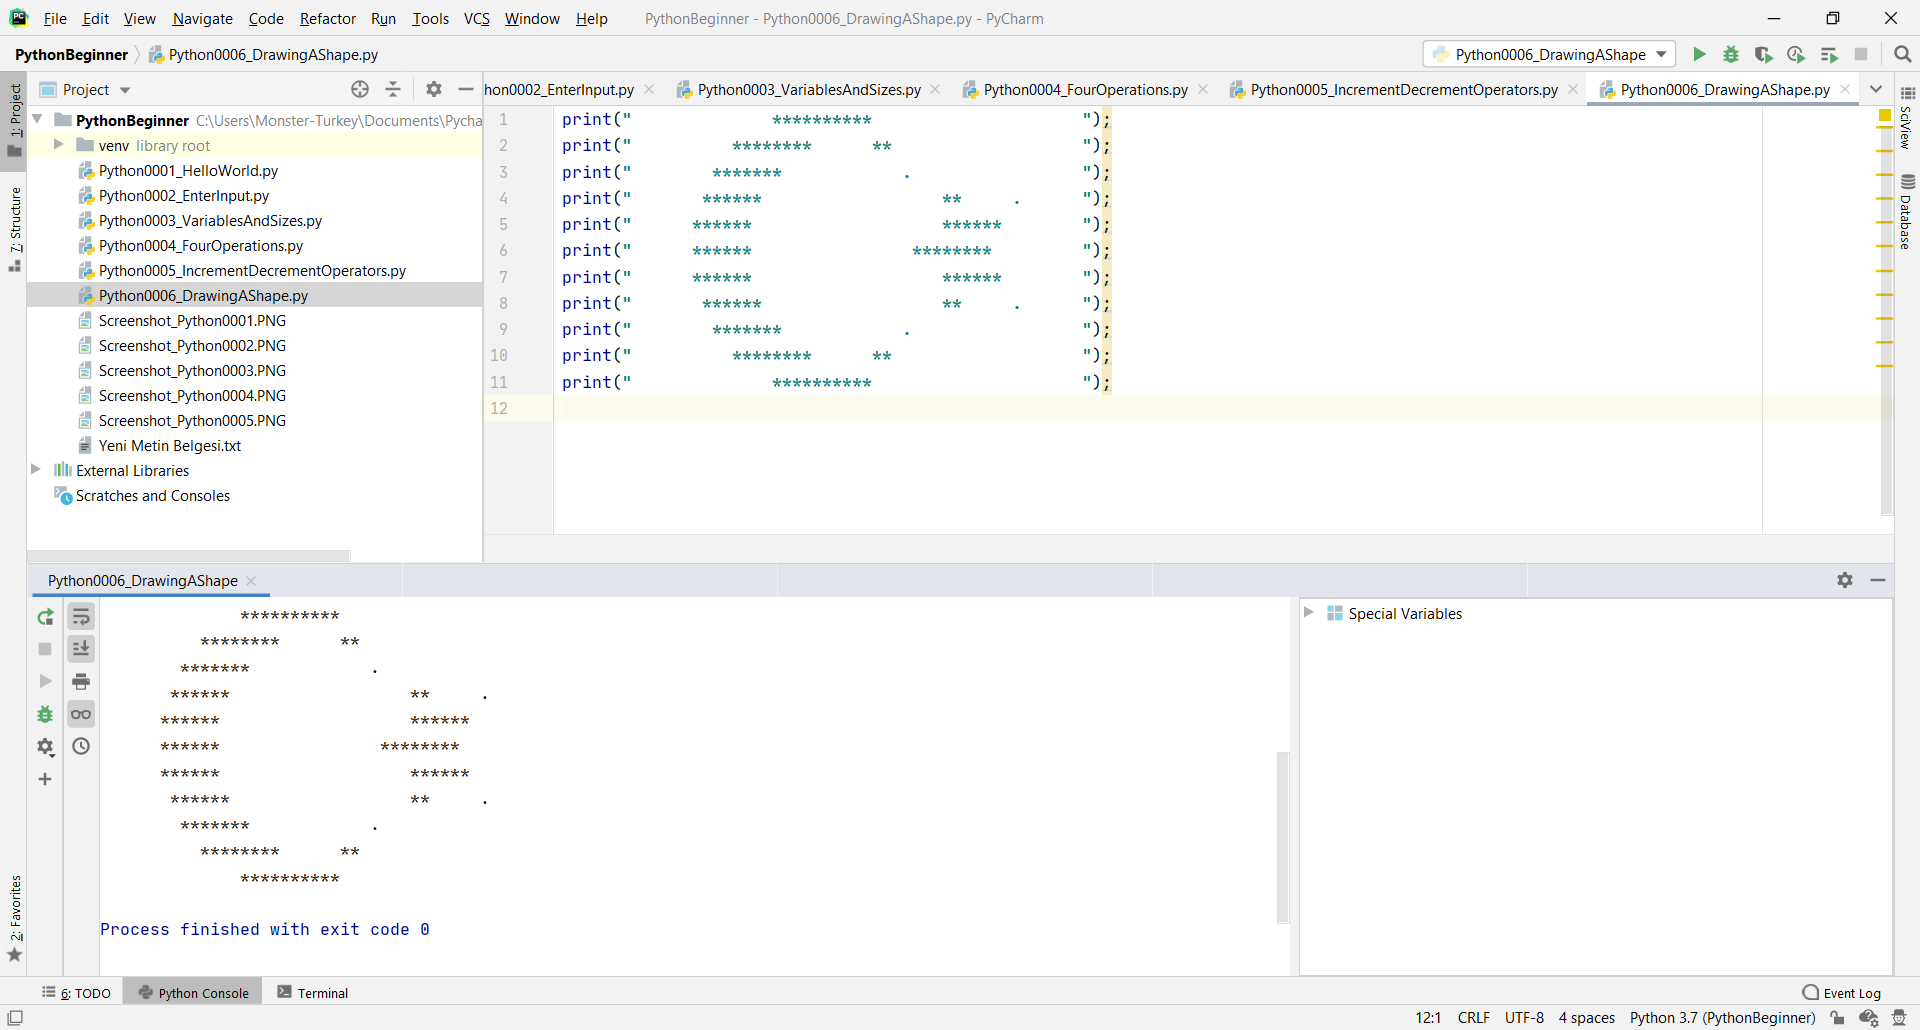
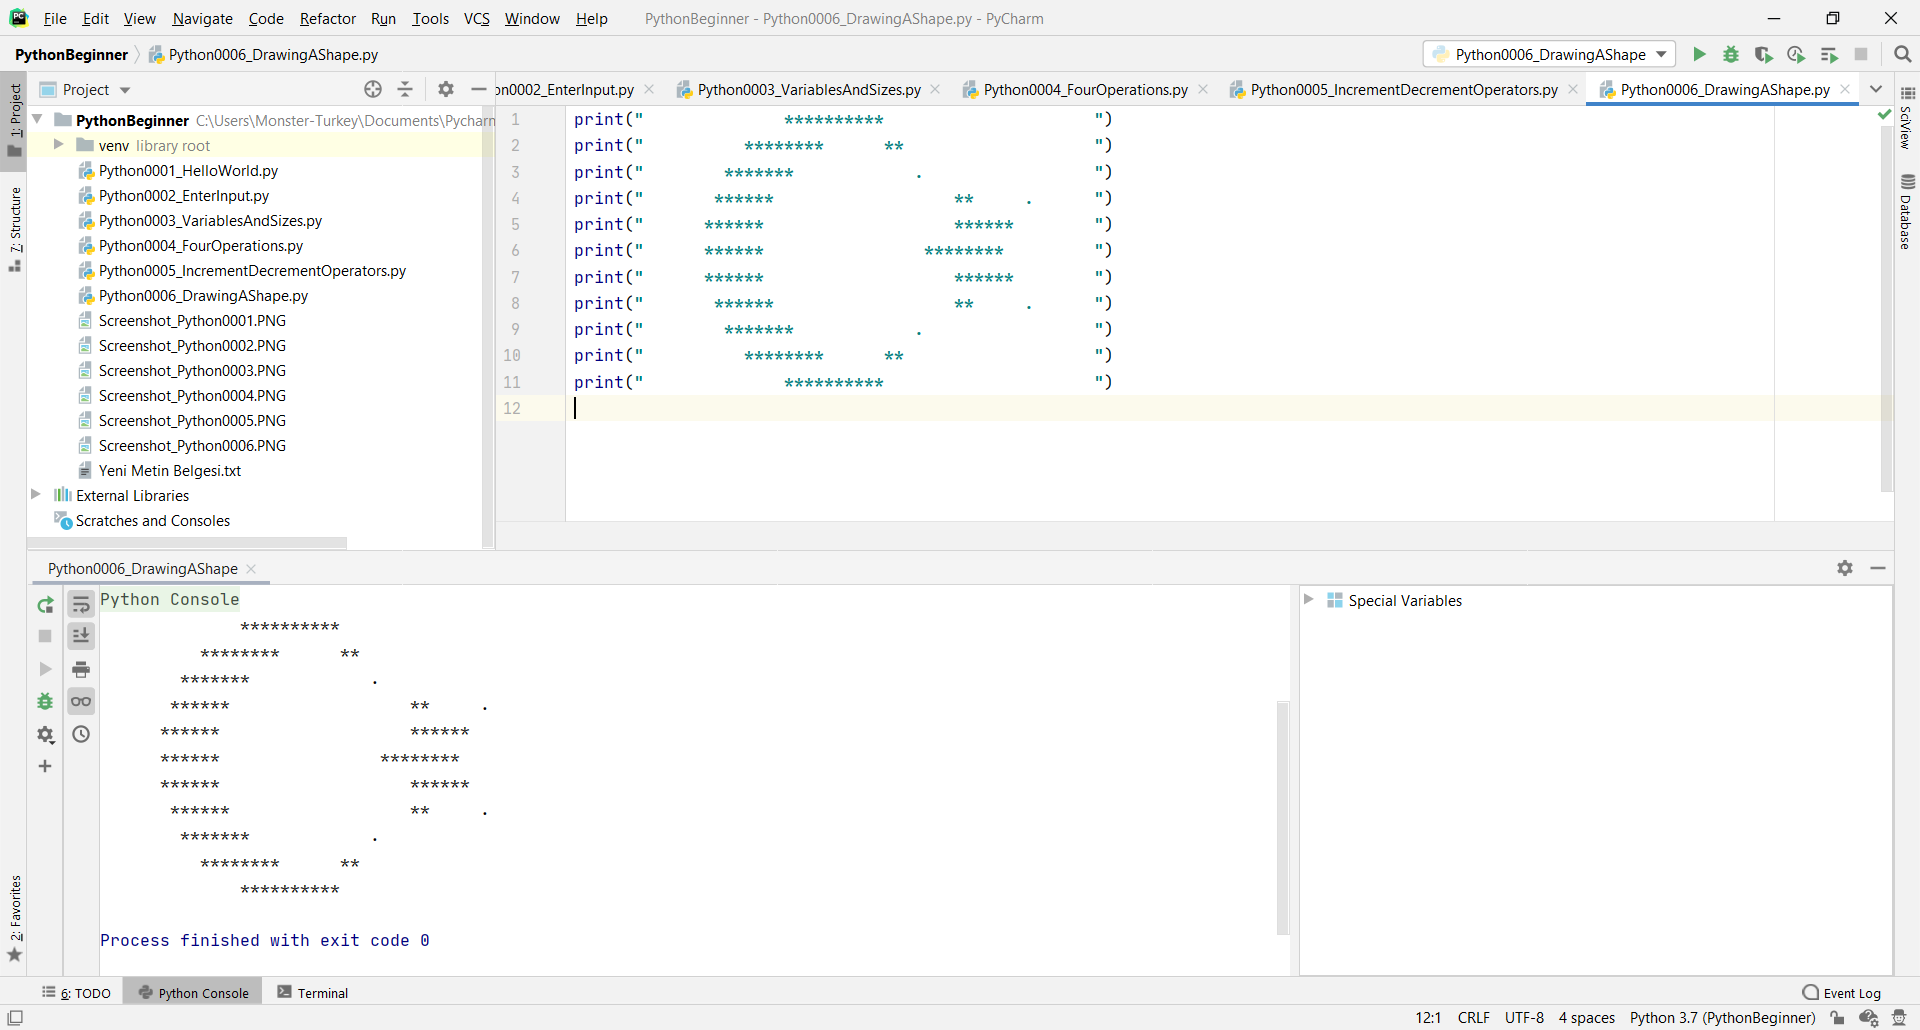
Fix a syntax error

diff --git a/Python0006_DrawingAShape.py b/Python0006_DrawingAShape.py
@@ -1,11 +1,11 @@
-print("              **********                     ");
-print("          ********      **                   ");
-print("        *******            .                 ");
-print("       ******                  **     .      ");
-print("      ******                   ******        ");
-print("      ******                ********         ");
-print("      ******                   ******        ");
-print("       ******                  **     .      ");
-print("        *******            .                 ");
-print("          ********      **                   ");
-print("              **********                     ");
+print("              **********                     ")
+print("          ********      **                   ")
+print("        *******            .                 ")
+print("       ******                  **     .      ")
+print("      ******                   ******        ")
+print("      ******                ********         ")
+print("      ******                   ******        ")
+print("       ******                  **     .      ")
+print("        *******            .                 ")
+print("          ********      **                   ")
+print("              **********                     ")
